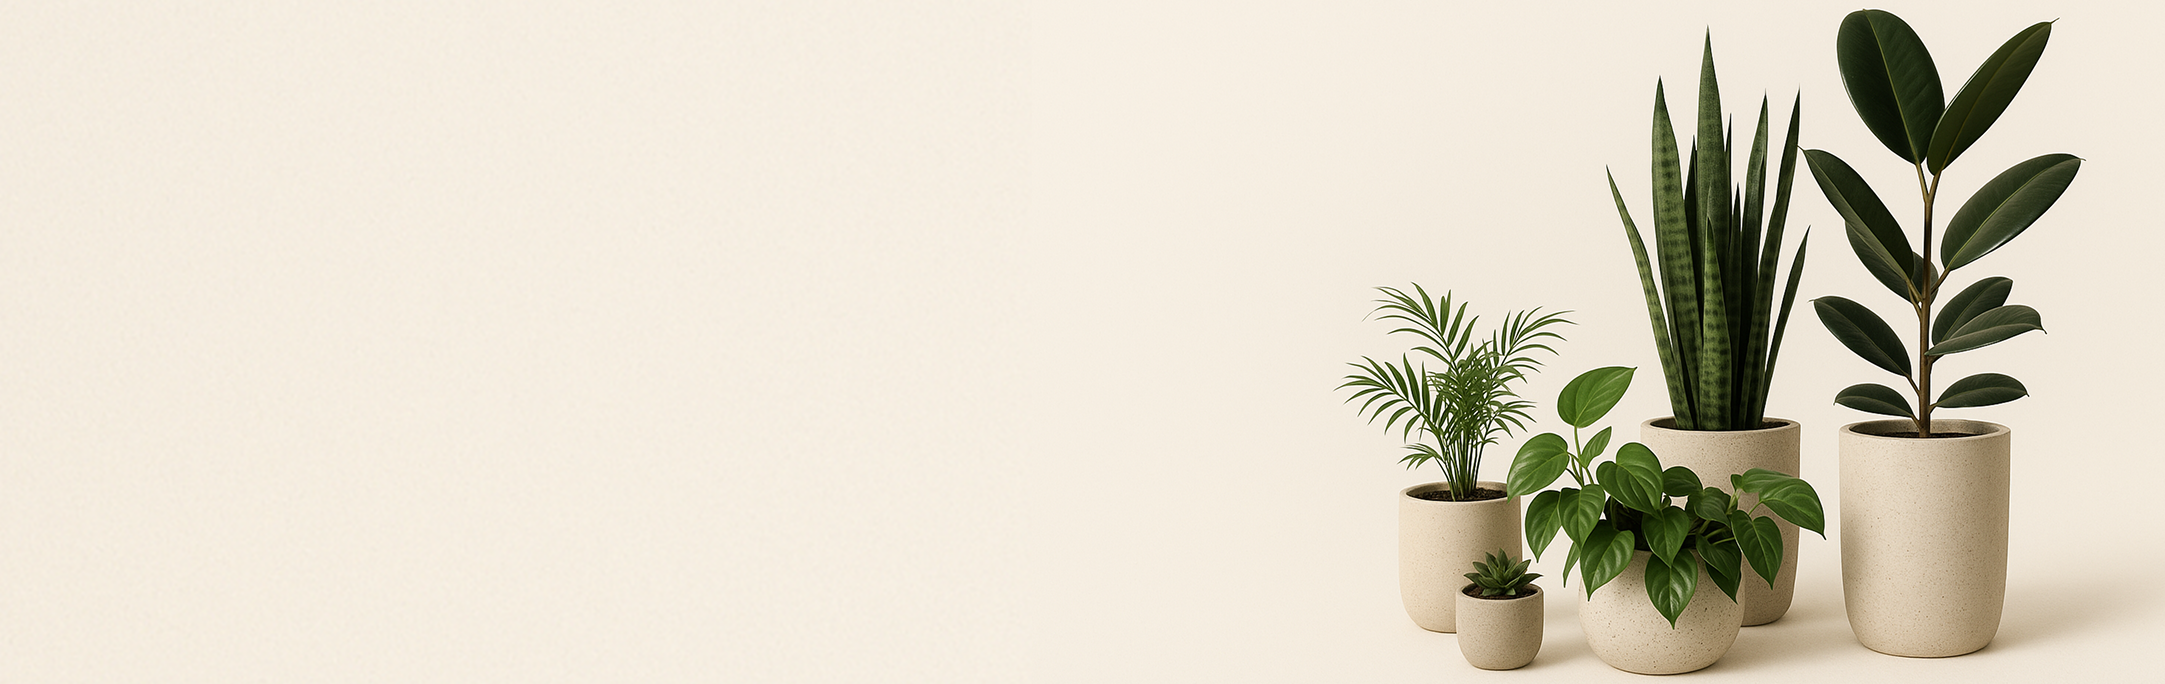
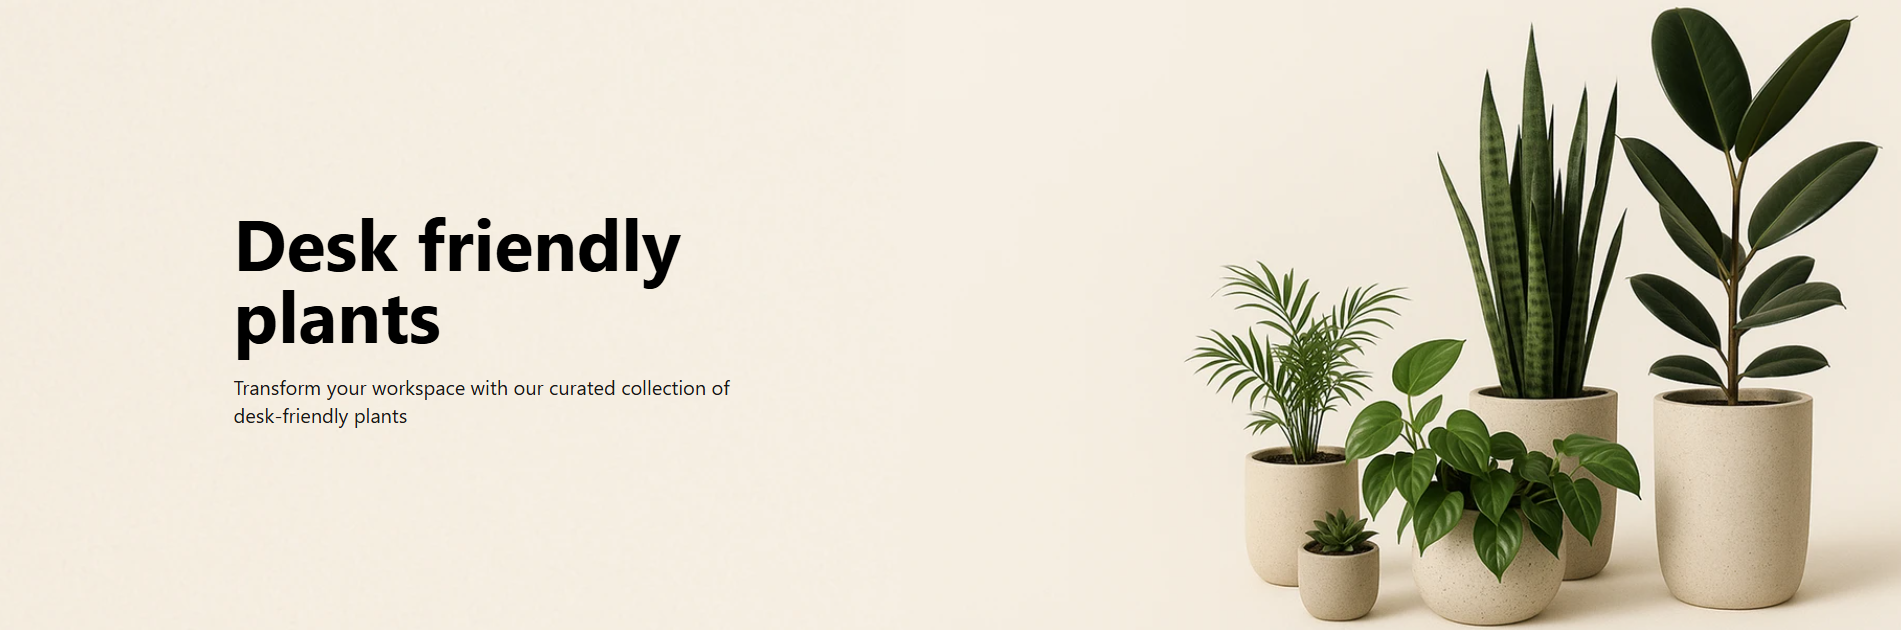
added minor chages on the hero section

Changed region(s): [[0.6207, 0.0, 1.0, 0.9952], [0.1241, 0.3317, 0.3724, 0.573], [0.1241, 0.6032, 0.4035, 0.6937]]

diff --git a/apps/marketplace/src/app/homepage/sections/PromoBanner/PromoBanner.tsx b/apps/marketplace/src/app/homepage/sections/PromoBanner/PromoBanner.tsx
@@ -1,5 +1,5 @@
 import Image from 'next/image';
-import Link from 'next/link';
+import RoundedButton from '@/components/ui/RoundedButton';
 
 interface PromoBannerProps {
   title: string;
@@ -10,40 +10,41 @@ interface PromoBannerProps {
 }
 
 export default function PromoBanner({
-  title = "Free Designer Pot with every Plant",
-  description = "Get handcrafted pots with your plant order. Limited time offer.",
+  title = "Design Your Perfect Plant-and-Pot Pairing",
+  description = "See every plant in every designer pot and room style before you buy. Personalize the look, from tabletop succulents to statement fiddle-leaf figs.",
   imageUrl = "https://images.unsplash.com/photo-1485955900006-10f4d324d411?q=80&w=2072",
   ctaText = "SHOP NOW",
   ctaLink = "/catalog"
 }: PromoBannerProps) {
   return (
-    <section className="bg-primary/5 py-16">
+    <section className="bg-primary py-8">
       <div className="container-custom">
         <div className="grid grid-cols-1 md:grid-cols-2 gap-8 lg:gap-12 items-center">
           <div className="relative aspect-[4/3] md:aspect-square w-full rounded-2xl overflow-hidden">
             <Image
-              src="https://images.unsplash.com/photo-1692604947955-ea7c8e41fa8c?q=80&w=1964&auto=format&fit=crop&ixlib=rb-4.0.3&ixid=M3wxMjA3fDB8MHxwaG90by1wYWdlfHx8fGVufDB8fHx8fA%3D%3D"
+              src="/fiddle-leaf-stting.png"
               alt="Collection of beautiful designer plant pots"
-              fill
-              className="object-cover hover:scale-105 transition-transform duration-700"
-              sizes="(max-width: 768px) 100vw, 50vw"
+              // fill
+              // sizes="(max-width: 768px) 100vw, 50vw"
+              width={450}
+              height={850}
               priority
               quality={90}
             />
           </div>
           <div className="max-w-xl">
-            <h2 className="text-3xl md:text-4xl lg:text-5xl font-bold mb-6 text-foreground">
+            <h2 className="text-3xl text-muted md:text-4xl lg:text-5xl font-bold mb-6 text-foreground">
               {title}
             </h2>
-            <p className="text-muted-foreground text-lg mb-8">
+            <p className="text-muted text-lg mb-8">
               {description}
             </p>
-            <Link
-              href={ctaLink}
-              className="inline-flex items-center justify-center bg-primary text-primary-foreground px-8 py-3 rounded-full font-medium hover:bg-primary/90 transition-all duration-200 hover:scale-105"
+            <RoundedButton 
+              href={ctaLink} 
+              variant="transparent"
             >
               {ctaText}
-            </Link>
+            </RoundedButton>
           </div>
         </div>
       </div>

diff --git a/apps/marketplace/src/app/homepage/sections/HeroSection/HeroSection.tsx b/apps/marketplace/src/app/homepage/sections/HeroSection/HeroSection.tsx
@@ -7,31 +7,36 @@ interface HeroSectionProps {
 
 export default function HeroSection({ title = "Desk friendly plants", subtitle }: HeroSectionProps) {
   return (
-    <section className="relative h-[600px] w-full overflow-hidden">
+    <section className="relative w-full aspect-[16/9] lg:aspect-[21/7] overflow-hidden">
       <div className="absolute inset-0">
-        <Image
-          src="/homepage_hero.png"
-          alt="Beautiful desk plants in a modern workspace"
-          fill
-          className="object-cover"
-          priority
-          sizes="100vw"
-          quality={90}
-        />
-      </div>
-      <div className="absolute inset-0 " />
-      <div className="container-custom relative z-10 flex h-full items-center">
-        <div className="max-w-2xl">
-          <h1 className="text-4xl font-bold text-balck md:text-6xl lg:text-7xl">
-            {title}
-          </h1>
-          {subtitle && (
-            <p className="mt-6 text-lg md:text-xl text-balck/90 max-w-lg">
-              {subtitle}
-            </p>
-          )}
+        {/* Mobile Image */}
+        <div className="block lg:hidden w-full h-full relative">
+          <Image
+            src="/homepage_hero_sm.png"
+            alt="Beautiful desk plants in a modern workspace"
+            fill
+            className="object-cover"
+            priority
+            sizes="100vw"
+            quality={90}
+          />
+        </div>
+        
+        {/* Desktop Image */}
+        <div className="hidden lg:block w-full h-full relative">
+          <Image
+            src="/homepage_hero.png"
+            alt="Beautiful desk plants in a modern workspace"
+            fill
+            className="object-cover"
+            priority
+            sizes="100vw"
+            quality={90}
+          />
         </div>
       </div>
+      <div className="absolute inset-0" />
+      
     </section>
   );
 } 

diff --git a/apps/marketplace/src/app/homepage/sections/FeaturedProducts/FeaturedProducts.tsx b/apps/marketplace/src/app/homepage/sections/FeaturedProducts/FeaturedProducts.tsx
@@ -1,5 +1,6 @@
 import Image from 'next/image';
 import Link from 'next/link';
+import RoundedButton from '@/components/ui/RoundedButton';
 
 interface Product {
   id: string;
@@ -21,17 +22,18 @@ export default function FeaturedProducts({
   return (
     <section className="py-16">
       <div className="container-custom">
-        <div className="flex justify-between items-center mb-12">
+        {/* Header - Show button on side for md and up */}
+        <div className="hidden md:flex justify-between items-center mb-12">
           <h2 className="text-2xl md:text-3xl font-bold text-foreground">{title}</h2>
-          <Link 
-            href="/catalog"
-            className="text-sm text-muted-foreground hover:text-foreground transition-colors duration-200"
-          >
-            SHOP ALL
-          </Link>
+          <RoundedButton href="/catalog">Show More</RoundedButton>
+        </div>
+
+        {/* Header - Mobile version without button */}
+        <div className="md:hidden mb-8">
+          <h2 className="text-2xl font-bold text-foreground">{title}</h2>
         </div>
         
-        <div className="grid grid-cols-1 md:grid-cols-3 gap-8">
+        <div className="grid grid-cols-2 md:grid-cols-4 gap-8">
           {products.map((product) => (
             <Link 
               key={product.id}
@@ -53,6 +55,11 @@ export default function FeaturedProducts({
               </div>
             </Link>
           ))}
+        </div>
+
+        {/* Show More button - Mobile only, shown at bottom */}
+        <div className="mt-8 md:hidden flex justify-center">
+          <RoundedButton href="/catalog">Show More</RoundedButton>
         </div>
       </div>
     </section>

diff --git a/apps/marketplace/src/app/page.tsx b/apps/marketplace/src/app/page.tsx
@@ -14,22 +14,29 @@ const mockProducts = [
     id: '1',
     name: 'Bird\'s Nest Maranta',
     price: 29.99,
-    imageUrl: '/plants/maranta.jpg',
+    imageUrl: 'https://leaffystorage.blob.core.windows.net/leaffyearth/plants/680800144fd2b01ef62ea8bb/c8361417',
     slug: 'birds-nest-maranta'
   },
   {
     id: '2',
     name: 'Areca Palm',
     price: 39.99,
-    imageUrl: '/plants/areca-palm.jpg',
+    imageUrl: 'https://leaffystorage.blob.core.windows.net/leaffyearth/plants/680804df9843cab9c6df08bc/c90001f4',
     slug: 'areca-palm'
   },
   {
     id: '3',
-    name: 'Red Maranta',
+    name: 'Monstera Deliciosa',
     price: 34.99,
-    imageUrl: '/plants/red-maranta.jpg',
-    slug: 'red-maranta'
+    imageUrl: 'https://leaffystorage.blob.core.windows.net/leaffyearth/plants/680801af9843cab9c6df083a/a46de2f3',
+    slug: 'monstera'
+  },
+  {
+    id: '4',
+    name: 'Fiddle Leaf Fig',
+    price: 34.99,
+    imageUrl: 'https://leaffystorage.blob.core.windows.net/leaffyearth/plants/6808042e9843cab9c6df088c/52356964',
+    slug: 'fiddle-leaf'
   }
 ];
 
@@ -122,9 +129,9 @@ export default function Home() {
         products={mockProducts}
       />
       <PromoBanner
-        title="Free Designer Pot with every Plant"
-        description="Get handcrafted pots with your plant order. Limited time offer."
-        ctaText="SHOP NOW"
+        title="Design Your Perfect Plant-and-Pot Pairing."
+        description="See every plant in every designer pot and room style before you buy. Personalize the look, from tabletop succulents to statement fiddle-leaf figs."
+        ctaText="TRY IT NOW"
         ctaLink="/catalog"
       />
       <PlantersCollection

diff --git a/apps/marketplace/src/components/ui/RoundedButton.tsx b/apps/marketplace/src/components/ui/RoundedButton.tsx
@@ -1,0 +1,59 @@
+'use client';
+
+import { ArrowRight } from 'lucide-react';
+import Link from 'next/link';
+import { cn } from '@/lib/utils';
+
+interface RoundedButtonProps {
+  href?: string;
+  onClick?: () => void;
+  children: React.ReactNode;
+  className?: string;
+  variant?: 'default' | 'transparent';
+}
+
+const RoundedButton = ({ 
+  href, 
+  onClick, 
+  children, 
+  className,
+  variant = 'default' 
+}: RoundedButtonProps) => {
+  const buttonClasses = cn(
+    'group inline-flex items-center p-[0.45rem] h-15 rounded-full transition-all duration-300',
+    variant === 'default' && 'bg-[#47715A] text-white hover:bg-[#2E432F]',
+    variant === 'transparent' && 'bg-transparent text-white border-2 border-white hover:bg-white/10',
+    className
+  );
+
+  const circleClasses = cn(
+    'rounded-full h-[3rem] w-[3rem] flex items-center justify-center',
+    variant === 'default' && 'bg-transparent border-2 border-[#FFFDF3]',
+    variant === 'transparent' && 'bg-transparent border-2 border-white'
+  );
+
+  const content = (
+    <>
+      <span className="text-base font-medium px-4">{children}</span>
+      <div className={circleClasses}>
+        <ArrowRight className="w-5 h-5 text-white transform group-hover:translate-x-1 transition-transform duration-300" />
+      </div>
+    </>
+  );
+
+  if (href) {
+    return (
+      <Link href={href} className={buttonClasses}>
+        {content}
+      </Link>
+    );
+  }
+
+  return (
+    <button onClick={onClick} className={buttonClasses}>
+      {content}
+    </button>
+  );
+};
+
+export default RoundedButton; 

diff --git a/apps/marketplace/src/components/layout/Header.tsx b/apps/marketplace/src/components/layout/Header.tsx
@@ -84,13 +84,26 @@ const Header = () => {
             {/* Logo */}
             <div className="flex-shrink-0">
               <Link href="/" className="flex items-center">
-                <Image
-                  src="/logo.svg"
-                  alt="Leaffy @ earth"
-                  width={120}
-                  height={40}
-                  className="h-8 w-auto"
-                />
+                {/* Mobile Logo */}
+                <div className="block md:hidden">
+                  <Image
+                    src="/small_logo.svg"
+                    alt="Leaffy @ earth"
+                    width={120}
+                    height={40}
+                    className="h-8 w-auto"
+                  />
+                </div>
+                {/* Desktop Logo */}
+                <div className="hidden md:block">
+                  <Image
+                    src="/large_logo.svg"
+                    alt="Leaffy @ earth"
+                    width={160}
+                    height={48}
+                    className="h-10 w-auto"
+                  />
+                </div>
               </Link>
             </div>
 

diff --git a/apps/marketplace/src/styles/globals.css b/apps/marketplace/src/styles/globals.css
@@ -13,9 +13,9 @@
     --popover: 0 0% 100%;
     --popover-foreground: 222.2 84% 4.9%;
  
-    --primary: 142.1 76.2% 36.3%;
+    --primary: 147 23% 36%;
     --primary-foreground: 355.7 100% 97.3%;
-    --primary-light: 142.1 70.6% 45.3%;
+    --primary-light: 147 41% 44%;
     --primary-dark: 142.1 76.2% 27.3%;
 
     --secondary: 210 40% 96.1%;

diff --git a/apps/marketplace/next.config.js b/apps/marketplace/next.config.js
@@ -6,6 +6,10 @@ const nextConfig = {
         protocol: 'https',
         hostname: 'images.unsplash.com',
       },
+      {
+        protocol: 'https',
+        hostname: 'leaffystorage.blob.core.windows.net',
+      },
     ],
   },
 };
